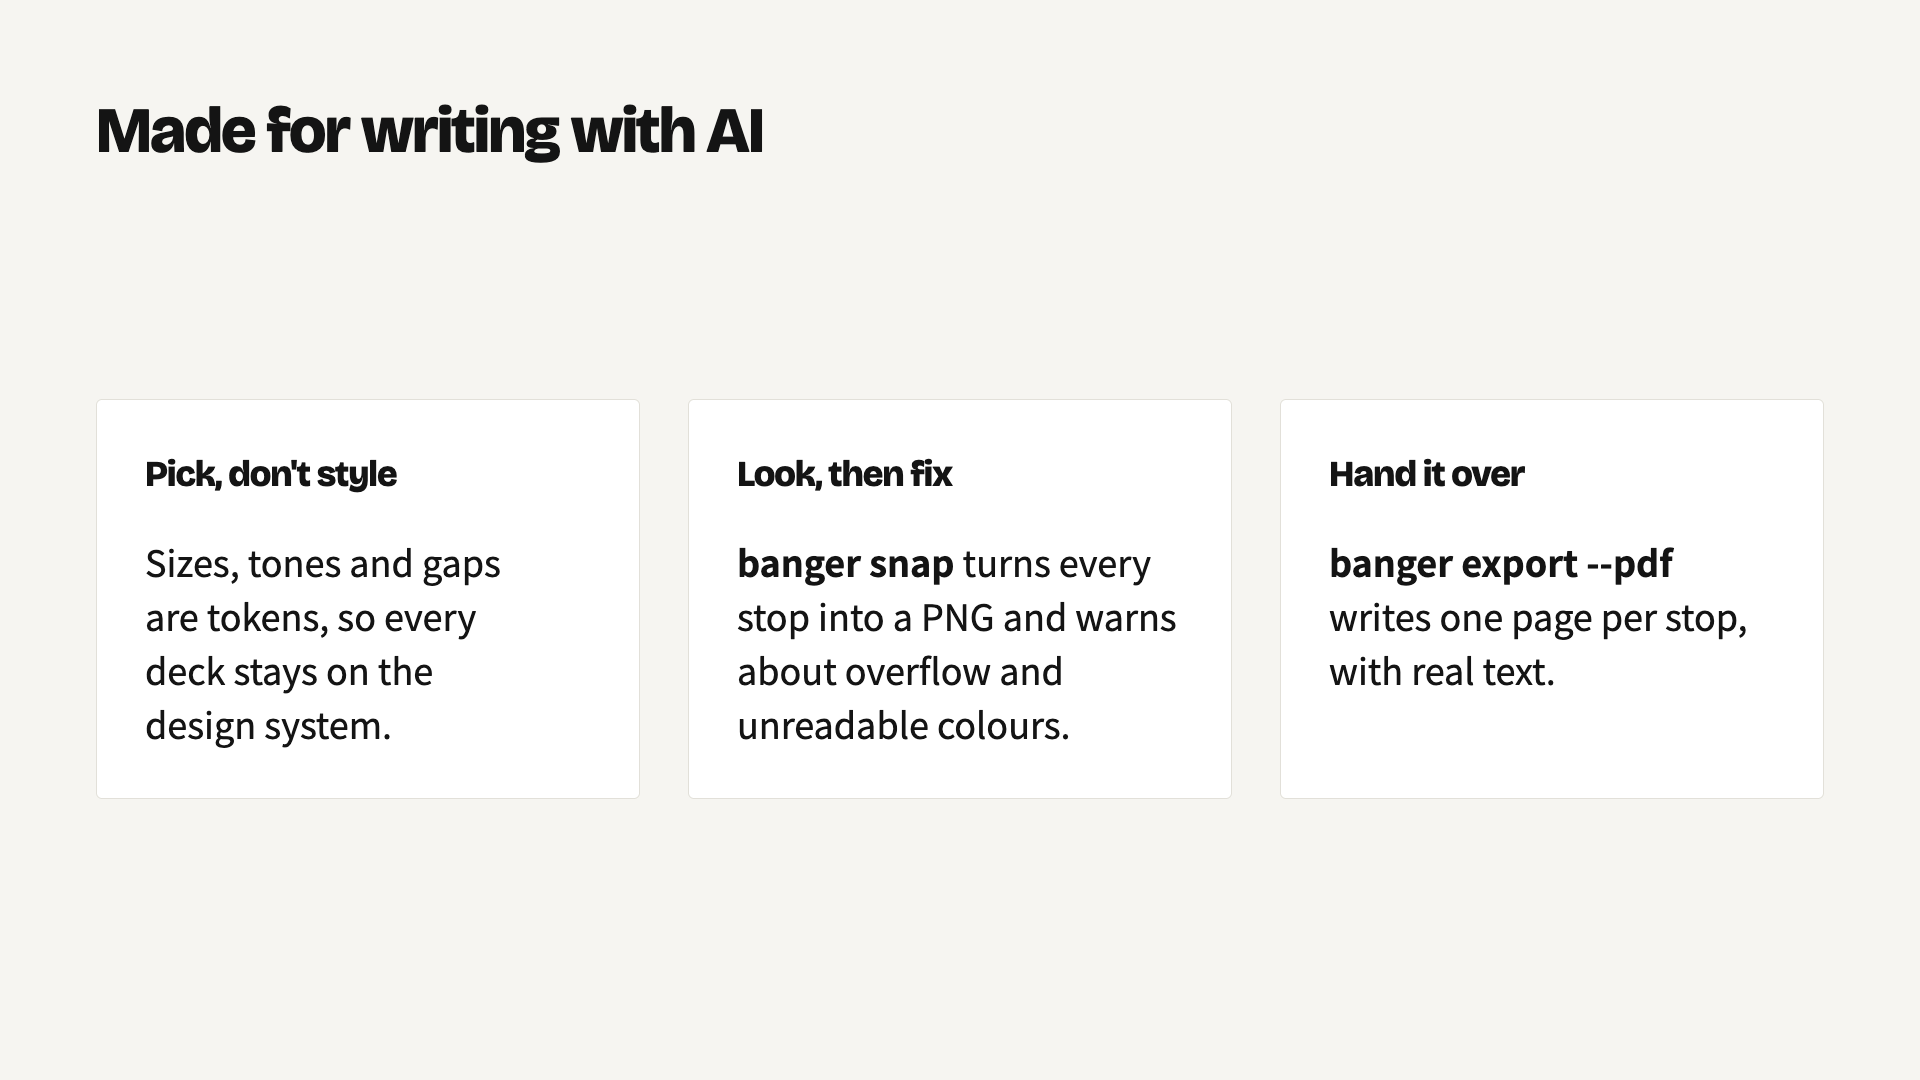
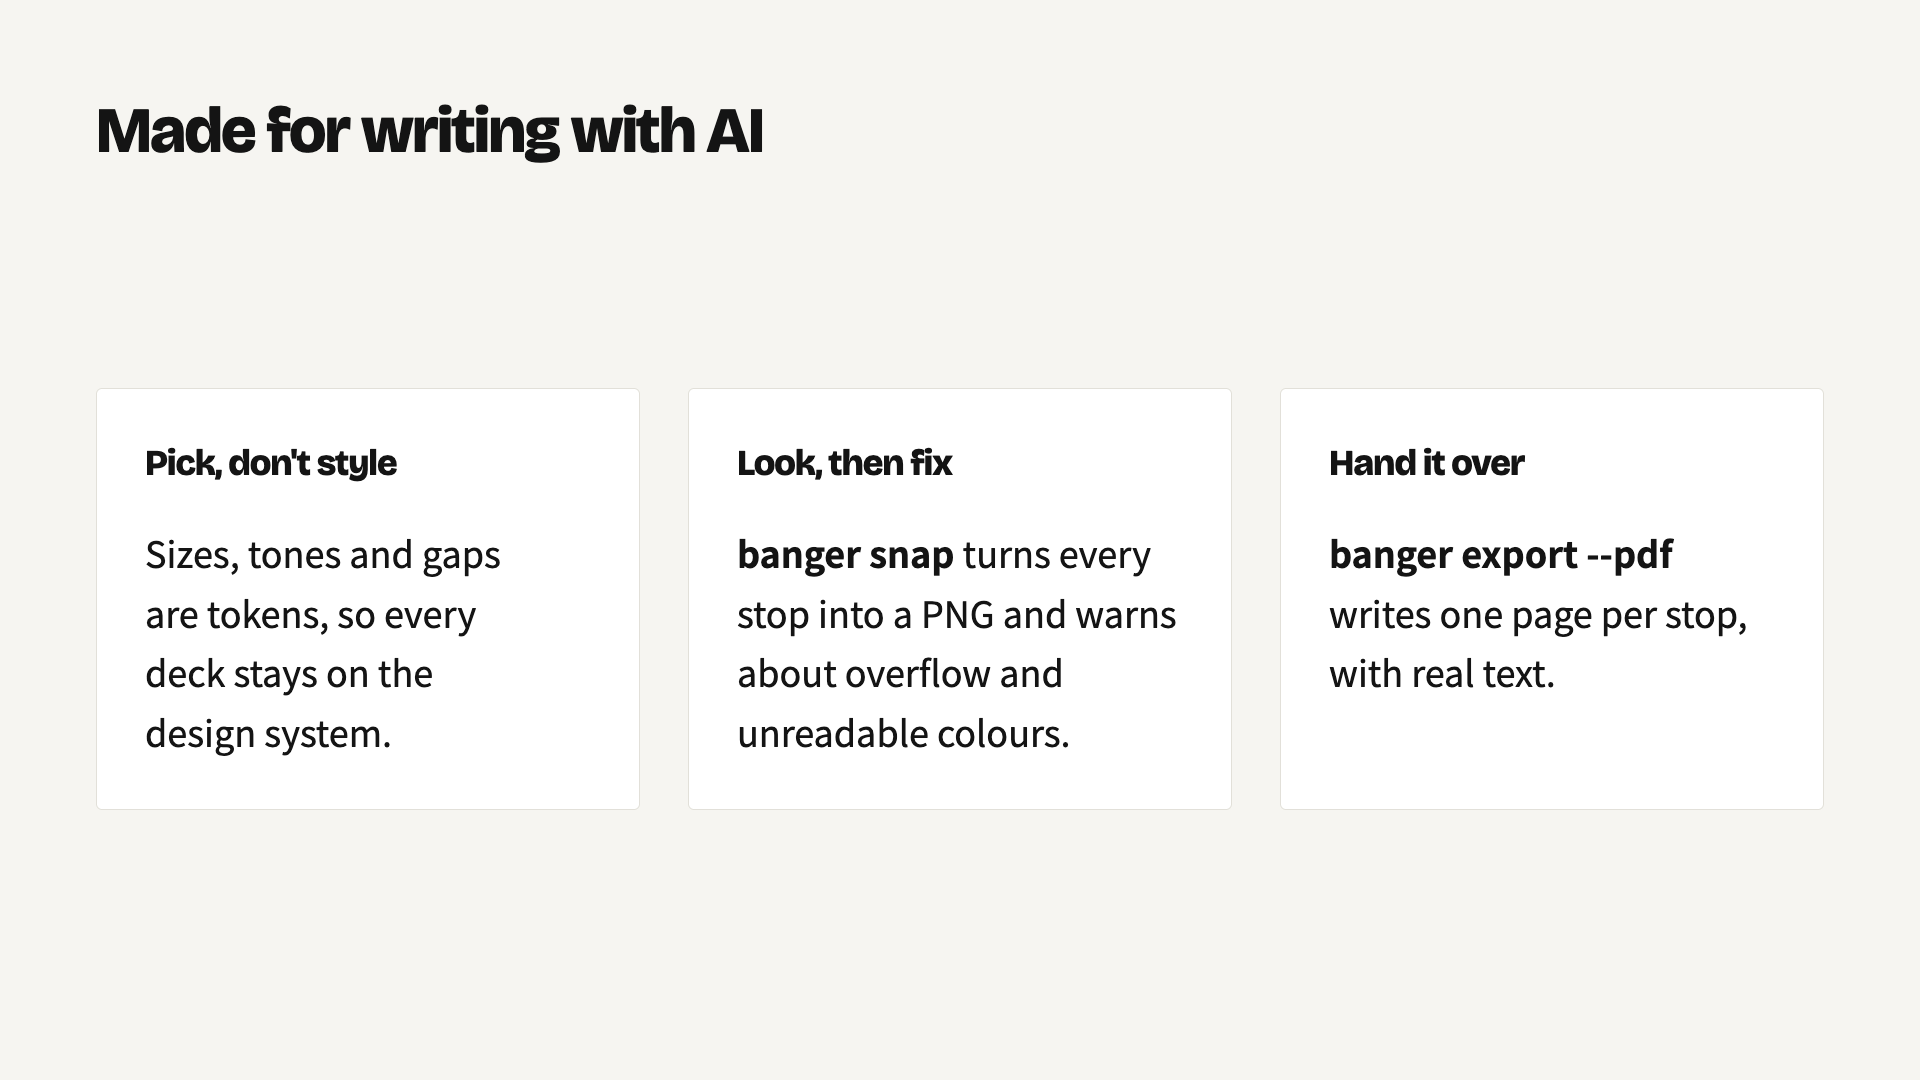
feat(core): give body text more leading and group nested lists
Running text (text, list, stat captions) now has its own leading,
looser than headings, since Japanese body text read cramped at 1.35.
A list that holds nested lists leaves half a line before each item
after the first, so a parent item and its children read as one group.

diff --git a/packages/core/test/e2e/theme-extensions.e2e.test.ts b/packages/core/test/e2e/theme-extensions.e2e.test.ts
@@ -86,11 +86,11 @@ describe("typography", () => {
     const text = await css(page, "bang-text", PROPS);
     expect(text["font-weight"]).toBe("300");
     expect(parseFloat(text["letter-spacing"])).toBeCloseTo(0.72, 2);
-    expect(parseFloat(text["line-height"])).toBeCloseTo(64.8, 2);
+    expect(parseFloat(text["line-height"])).toBeCloseTo(71.28, 1);
     const list = await css(page, "bang-list", PROPS);
     expect(list["font-weight"]).toBe("300");
     expect(parseFloat(list["letter-spacing"])).toBeCloseTo(0.72, 2);
-    expect(parseFloat(list["line-height"])).toBeCloseTo(64.8, 2);
+    expect(parseFloat(list["line-height"])).toBeCloseTo(71.28, 1);
     const markerLh = await page.evaluate(() => {
       const host = document.querySelector("bang-list") as HTMLElement;
       const probe = document.createElement("div");
@@ -100,7 +100,7 @@ describe("typography", () => {
       probe.remove();
       return h;
     });
-    expect(parseFloat(markerLh)).toBeCloseTo(64.8, 2);
+    expect(parseFloat(markerLh)).toBeCloseTo(71.28, 1);
     expect((await css(page, "bang-stat", ["font-weight"], true))["font-weight"]).toBe("900");
   });
 
@@ -118,7 +118,7 @@ describe("typography", () => {
       const list = await css(page, "bang-list", PROPS);
       expect(list["font-weight"]).toBe("400");
       expect(list["letter-spacing"]).toBe("normal");
-      expect(parseFloat(text["line-height"])).toBeCloseTo(54, 2);
+      expect(parseFloat(text["line-height"])).toBeCloseTo(59.4, 2);
       expect((await css(page, "bang-stat", ["font-weight"], true))["font-weight"]).toBe("800");
       const vars = await inlineVars(page);
       for (const name of NEW_VARS) expect(vars, `${theme} ${name}`).not.toContain(name);
@@ -433,6 +433,27 @@ describe("nested list", () => {
     });
     expect(lines.count).toBeGreaterThanOrEqual(2);
     expect(Math.abs(lines.first - lines.last)).toBeLessThanOrEqual(1);
+  });
+
+  it("separates a parent item and its children from the next group, and keeps a list without nesting tight", async () => {
+    const d = await deck("{}", nest('size="m"'));
+    const gaps = await d.page.evaluate(() => {
+      const box = (s: string) => document.querySelector(s)!.getBoundingClientRect();
+      return {
+        intoChild: box("#n1").top - box("#pl1").bottom,
+        afterGroup: box("#pl2").top - box("#n1").bottom,
+        betweenParents: box("#pl3").top - box("#pl2").bottom,
+      };
+    });
+    // Half a parent line (48px x 1.55) between groups; a tenth of a child line (36px x 1.65) before the children.
+    expect(gaps.intoChild).toBeCloseTo(5.94, 0);
+    expect(gaps.afterGroup).toBeCloseTo(37.2, 0);
+    expect(gaps.betweenParents).toBeCloseTo(37.2, 0);
+    const flat = await deck("{}", `<bang-frame id="a"><bang-list size="m"><li id="f1">One</li><li id="f2">Two</li></bang-list></bang-frame>`);
+    const flatGap = await flat.page.evaluate(
+      () => document.querySelector("#f2")!.getBoundingClientRect().top - document.querySelector("#f1")!.getBoundingClientRect().bottom,
+    );
+    expect(flatGap).toBeCloseTo(0, 0);
   });
 
   it("AC-NEST-2 reveals the nested list with the preceding parent item and ignores it for step counts", async () => {

diff --git a/packages/core/src/content/list.ts b/packages/core/src/content/list.ts
@@ -15,7 +15,7 @@ import { defineOnce, StepAware } from "../element.js";
  * </bang-list>
  * ```
  *
- * Nest a list by placing a `bang-list` right after the parent `li`, as a direct child of the parent list. Never put it inside the `li`: the HTML parser closes the parent `li` and breaks the nesting. The nested list has no depth limit, but every level looks the same, based on the outermost list: one size smaller, the same tone, a hollow marker. Write `size` on the nested list to pick its size (for example the same size as the parent). Its `tone` and `step` are ignored, and it appears together with the preceding parent item.
+ * Nest a list by placing a `bang-list` right after the parent `li`, as a direct child of the parent list. Never put it inside the `li`: the HTML parser closes the parent `li` and breaks the nesting. The nested list has no depth limit, but every level looks the same, based on the outermost list: one size smaller, the same tone, a hollow marker. Write `size` on the nested list to pick its size (for example the same size as the parent). A list that holds nested lists leaves half a line before each of its items after the first, so each parent item and its children read as one group. Its `tone` and `step` are ignored, and it appears together with the preceding parent item.
  *
  * ```html
  * <bang-list step="1">
@@ -66,6 +66,13 @@ export class BangList extends StepAware {
       border: 0.08em solid var(--bang-marker);
       box-sizing: border-box;
     }
+    /* A list with nested lists reads as groups: a parent item and its children. Space between groups, none inside one. */
+    :host([data-bang-grouped]) ::slotted(li:not(:first-child)) {
+      margin-top: calc(var(--bang-lh) * 0.5em);
+    }
+    ::slotted(bang-list) {
+      margin-top: calc(var(--bang-lh) * 0.1em);
+    }
     :host([ordered]) ::slotted(li)::before {
       content: counter(item) ".";
       border: 0;
@@ -113,6 +120,7 @@ export class BangList extends StepAware {
   protected willUpdate(changed: PropertyValues): void {
     super.willUpdate(changed);
     this.toggleAttribute("data-bang-nested", this.nestedIn() !== null);
+    this.toggleAttribute("data-bang-grouped", [...this.children].some((c) => c.localName === "bang-list"));
   }
 
   get stepCount(): number {
@@ -152,8 +160,8 @@ export class BangList extends StepAware {
     return html`<style>
         :host {
           font-size: var(--bang-size-${size});
-          line-height: calc(var(--bang-leading-${size}) * var(--bang-text-leading-scale, 1));
-          --bang-lh: calc(var(--bang-leading-${size}) * var(--bang-text-leading-scale, 1));
+          line-height: calc(var(--bang-leading-text-${size}) * var(--bang-text-leading-scale, 1));
+          --bang-lh: calc(var(--bang-leading-text-${size}) * var(--bang-text-leading-scale, 1));
           --bang-marker: var(--bang-tone-${tone});
           color: var(--bang-tone-${tone});
         }

diff --git a/packages/core/src/content/stat.ts b/packages/core/src/content/stat.ts
@@ -51,7 +51,7 @@ export class BangStat extends BangElement {
     if (value === null) warnOnce("stat|value", "[banger] <bang-stat> needs a value attribute");
     return html`<style>
         .value { font-size: var(--bang-size-${size}); line-height: calc(var(--bang-leading-${size}) * var(--bang-heading-leading-scale, 1)); color: var(--bang-tone-${tone}); }
-        .label { font-size: var(--bang-size-${labelSize}); line-height: var(--bang-leading-${labelSize}); }
+        .label { font-size: var(--bang-size-${labelSize}); line-height: var(--bang-leading-text-${labelSize}); }
       </style><div class="value">${value ?? ""}</div>${this.label ? html`<div class="label">${this.label}</div>` : ""}`;
   }
 }

diff --git a/packages/core/src/content/text.ts b/packages/core/src/content/text.ts
@@ -37,7 +37,7 @@ export class BangText extends BangElement {
     const size = pick(this, "size", SIZES, "s");
     const tone = pick(this, "tone", TONES, "default");
     return html`<style>
-        :host { font-size: var(--bang-size-${size}); line-height: calc(var(--bang-leading-${size}) * var(--bang-text-leading-scale, 1)); color: var(--bang-tone-${tone}); }
+        :host { font-size: var(--bang-size-${size}); line-height: calc(var(--bang-leading-text-${size}) * var(--bang-text-leading-scale, 1)); color: var(--bang-tone-${tone}); }
       </style><slot></slot>`;
   }
 }

diff --git a/packages/core/src/theme/theme.generated.ts b/packages/core/src/theme/theme.generated.ts
@@ -41,6 +41,12 @@ export const themeCss = `:host {
   --bang-leading-l: 1.1;
   --bang-leading-xl: 1;
   --bang-leading-2xl: 0.95;
+  --bang-leading-text-xs: 1.7;
+  --bang-leading-text-s: 1.65;
+  --bang-leading-text-m: 1.55;
+  --bang-leading-text-l: 1.45;
+  --bang-leading-text-xl: 1.3;
+  --bang-leading-text-2xl: 1.2;
   --bang-gap-xs: var(--bang-space-4);
   --bang-gap-s: var(--bang-space-6);
   --bang-gap-m: var(--bang-space-8);

diff --git a/skill/reference/components.md b/skill/reference/components.md
@@ -148,7 +148,7 @@ Inside the text, only `<b>` (bold: one step heavier than the surroundings), `<ma
 </bang-list>
 ```
 
-Nest a list by placing a `bang-list` right after the parent `li`, as a direct child of the parent list. Never put it inside the `li`: the HTML parser closes the parent `li` and breaks the nesting. The nested list has no depth limit, but every level looks the same, based on the outermost list: one size smaller, the same tone, a hollow marker. Write `size` on the nested list to pick its size (for example the same size as the parent). Its `tone` and `step` are ignored, and it appears together with the preceding parent item.
+Nest a list by placing a `bang-list` right after the parent `li`, as a direct child of the parent list. Never put it inside the `li`: the HTML parser closes the parent `li` and breaks the nesting. The nested list has no depth limit, but every level looks the same, based on the outermost list: one size smaller, the same tone, a hollow marker. Write `size` on the nested list to pick its size (for example the same size as the parent). A list that holds nested lists leaves half a line before each of its items after the first, so each parent item and its children read as one group. Its `tone` and `step` are ignored, and it appears together with the preceding parent item.
 
 ```html
 <bang-list step="1">
